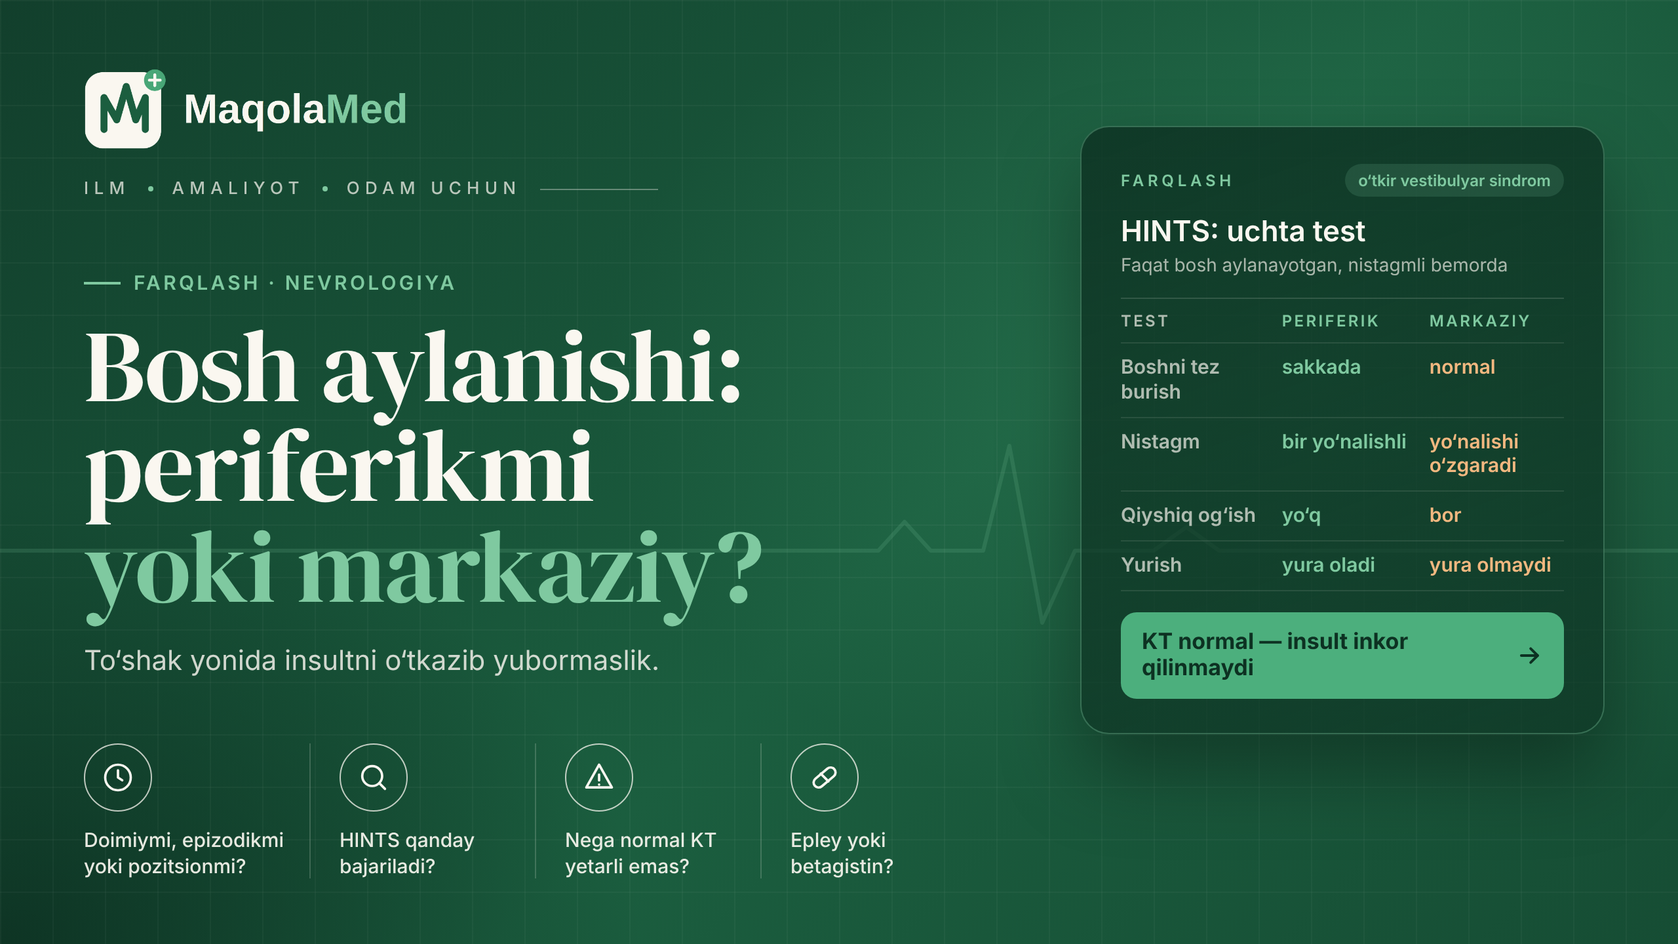
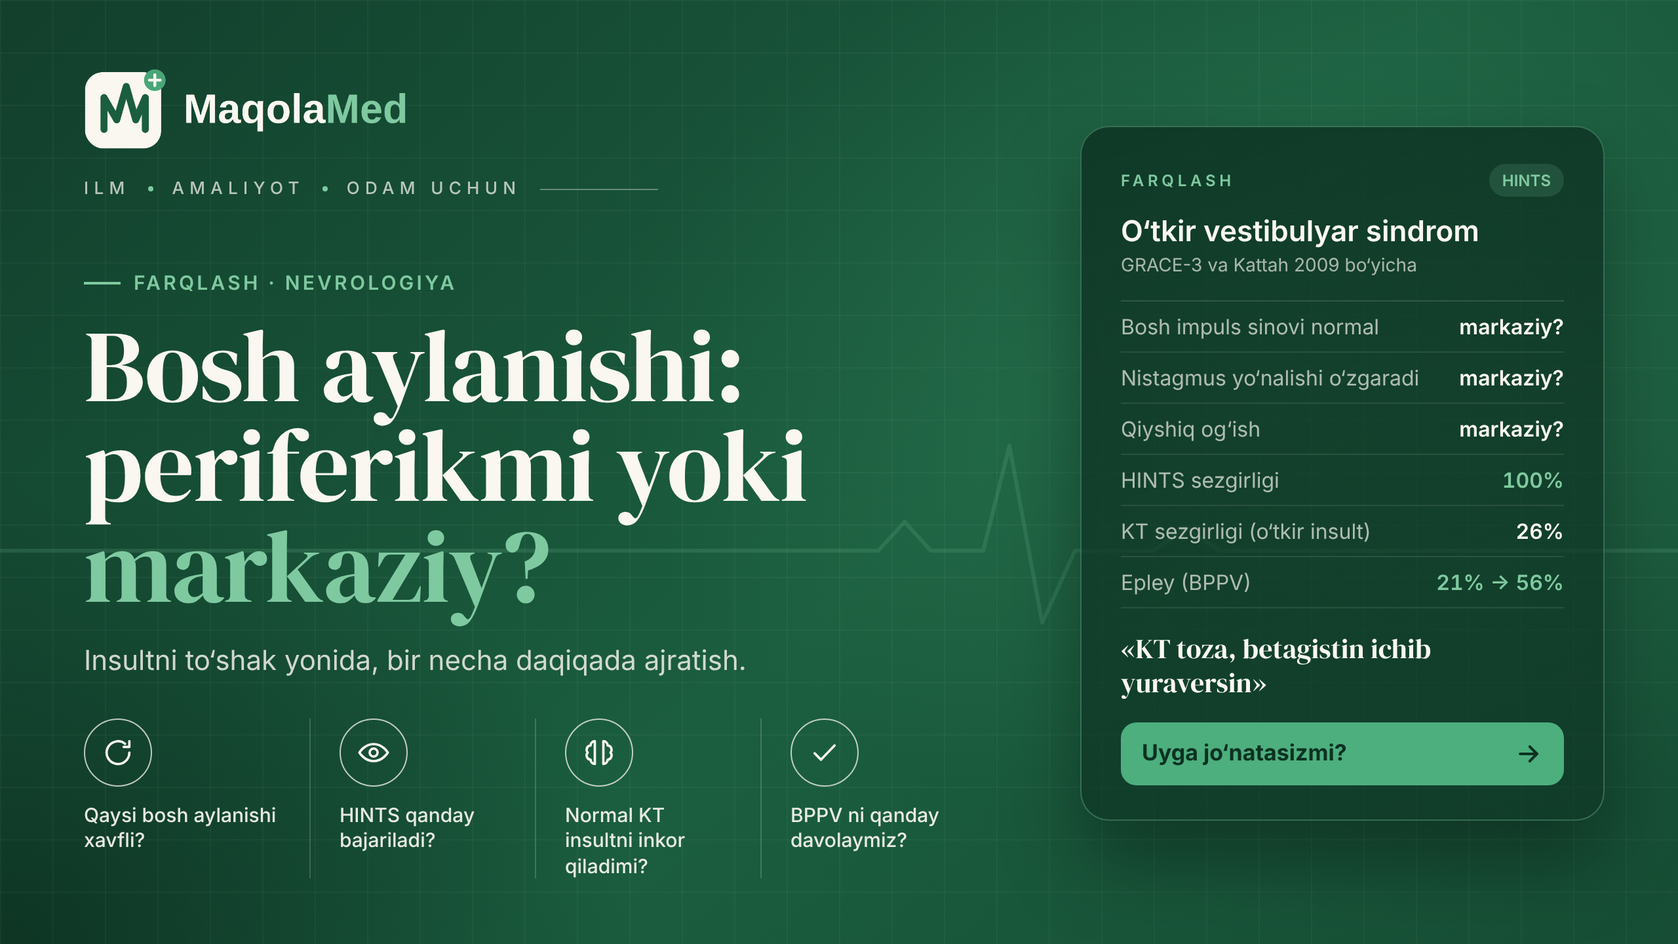
28-noyabr maqolasi qayta yozildi (v2, humanizer): bosh aylanishi — muqovalar, 2 rasm

diff --git a/_manba/2026-11-28/muqova-instagram-4x5.html b/_manba/2026-11-28/muqova-instagram-4x5.html
@@ -1,0 +1,84 @@
+<!doctype html>
+<html lang="uz">
+<head>
+<meta charset="utf-8"><base href="file:///home/claude/maqolamed-rasmlar/_shablon/">
+<style>
+@font-face{font-family:"DM Serif Display";src:url("fonts/dm-serif-display-latin-400-normal.woff2") format("woff2");}
+@font-face{font-family:"DM Serif Display";src:url("fonts/dm-serif-display-latin-ext-400-normal.woff2") format("woff2");unicode-range:U+0100-024F,U+1E00-1EFF;}
+:root{
+  --emerald:#1B5E3F; --deep:#0D3122; --cream:#FAF7F0; --mint:#7FC9A0; --green:#4CAF7D;
+}
+*{margin:0;padding:0;box-sizing:border-box}
+html,body{width:1280px;height:720px;overflow:hidden;background:var(--deep)}
+.cover{position:relative;width:1280px;height:720px;overflow:hidden;font-family:"Inter",sans-serif;color:var(--cream);
+  background:
+    radial-gradient(900px 600px at 78% 40%, rgba(76,175,125,.22), transparent 60%),
+    radial-gradient(700px 500px at 0% 100%, rgba(13,49,34,.9), transparent 70%),
+    linear-gradient(135deg,#123F2C 0%, #1B5E3F 55%, #164D34 100%);}
+.grid{position:absolute;inset:0;background-image:
+    linear-gradient(rgba(250,247,240,.035) 1px,transparent 1px),
+    linear-gradient(90deg,rgba(250,247,240,.035) 1px,transparent 1px);
+  background-size:40px 40px;}
+.ekg{position:absolute;left:0;top:300px;width:1280px;height:200px;opacity:.16}
+.left{position:absolute;left:64px;top:52px;width:690px}
+.brand{display:flex;align-items:center;gap:28px}
+.brand img{height:62px;display:block}
+.tag{display:flex;align-items:center;gap:14px;font-size:13px;letter-spacing:.32em;color:rgba(250,247,240,.72);font-weight:500}
+.tag i{width:4px;height:4px;border-radius:50%;background:var(--mint);display:inline-block}
+.tag .line{width:90px;height:1px;background:rgba(250,247,240,.35)}
+.kicker{margin-top:54px;display:inline-flex;align-items:center;gap:10px;font-size:15px;font-weight:600;letter-spacing:.14em;text-transform:uppercase;color:var(--mint)}
+.kicker span{display:inline-block;width:28px;height:2px;background:var(--mint)}
+h1{margin-top:16px;font-family:"DM Serif Display",serif;font-weight:400;font-size:78px;line-height:.98;letter-spacing:-.01em;color:var(--cream)}
+h1 em{font-style:normal;color:var(--mint)}
+.sub{margin-top:22px;font-size:21px;color:rgba(250,247,240,.82);font-weight:400}
+.points{position:absolute;left:64px;bottom:50px;display:flex;gap:0}
+.pt{width:172px;padding-right:18px;display:flex;flex-direction:column;align-items:flex-start;gap:12px}
+.pt + .pt{padding-left:22px;border-left:1px solid rgba(250,247,240,.18)}
+.ic{width:52px;height:52px;border-radius:50%;border:1.6px solid rgba(250,247,240,.75);display:grid;place-items:center}
+.ic svg{width:26px;height:26px;stroke:var(--cream);fill:none;stroke-width:1.7;stroke-linecap:round;stroke-linejoin:round}
+.pt p{font-size:15px;line-height:1.3;color:rgba(250,247,240,.92);font-weight:500}
+.card{position:absolute;right:56px;top:96px;width:400px;border-radius:22px;padding:28px 30px 26px;
+  background:linear-gradient(160deg,rgba(13,49,34,.82),rgba(13,49,34,.62));
+  border:1px solid rgba(127,201,160,.35);box-shadow:0 30px 60px rgba(0,0,0,.35)}
+.card .ch{display:flex;justify-content:space-between;align-items:center}
+.card .lbl{font-size:12px;letter-spacing:.24em;font-weight:600;color:var(--mint)}
+.card .pill{font-size:12px;font-weight:600;padding:5px 10px;border-radius:999px;background:rgba(127,201,160,.16);color:var(--mint)}
+.card h3{margin-top:14px;font-size:22px;font-weight:600}
+.card h3 small{display:block;margin-top:4px;font-size:14px;font-weight:400;color:rgba(250,247,240,.65)}
+.rows{margin-top:18px;border-top:1px solid rgba(250,247,240,.14)}
+.row{display:flex;justify-content:space-between;padding:9px 0;border-bottom:1px solid rgba(250,247,240,.10);font-size:16px}
+.row span:first-child{color:rgba(250,247,240,.68)}
+.row span:last-child{font-weight:600;font-variant-numeric:tabular-nums}
+.row .ok{color:var(--mint)}
+.quote{margin-top:18px;font-family:"DM Serif Display",serif;font-size:21px;line-height:1.25;color:var(--cream)}
+.ask{margin-top:16px;display:flex;align-items:center;justify-content:space-between;padding:13px 16px;border-radius:12px;background:var(--green);color:#0D3122;font-weight:700;font-size:17px}
+.ask svg{width:22px;height:22px;stroke:#0D3122;fill:none;stroke-width:2.2;stroke-linecap:round;stroke-linejoin:round}
+
+html,body{width:1080px;height:1350px}
+.cover{width:1080px;height:1350px}
+.ekg{top:525px;width:1080px}
+.left{left:72px;top:64px;width:940px}
+.brand img{height:72px}
+h1{font-size:96px;margin-top:18px}
+.kicker{margin-top:56px;font-size:17px}
+.sub{font-size:24px}
+.card{left:72px;right:72px;top:auto;bottom:250px;width:auto;padding:30px 34px}
+.rows{display:grid;grid-template-columns:1fr 1fr;column-gap:40px}
+.quote{font-size:24px}
+.points{left:72px;right:72px;bottom:60px}
+.pt{width:auto;flex:1}
+.pt p{font-size:17px}
+
+</style>
+</head>
+<body><div class="cover"><div class="grid"></div>
+<svg class="ekg" viewBox="0 0 1280 200" preserveAspectRatio="none"><polyline fill="none" stroke="#7FC9A0" stroke-width="3" stroke-linejoin="round" stroke-linecap="round" points="0,120 640,120 670,120 690,98 710,120 750,120 770,40 795,175 820,120 880,120 905,102 930,120 1280,120"/></svg>
+<div class="left"><div class="brand"><img src="logo_dark_bg.png" alt="MaqolaMed"></div>
+<div class="tag" style="margin-top:22px"><span>ILM</span><i></i><span>AMALIYOT</span><i></i><span>ODAM UCHUN</span><span class="line"></span></div>
+<div class="kicker"><span></span>Farqlash · Nevrologiya</div>
+<h1>Bosh aylanishi:<br>periferikmi yoki<br><em>markaziy?</em></h1>
+<div class="sub">Insultni to‘shak yonida, bir necha daqiqada ajratish.</div></div>
+<div class="points"><div class="pt"><div class="ic"><svg viewBox="0 0 24 24"><path d="M20 12a8 8 0 1 1-3-6.2"/><path d="M20 4v4h-4"/></svg></div><p>Qaysi bosh aylanishi xavfli?</p></div><div class="pt"><div class="ic"><svg viewBox="0 0 24 24"><path d="M2 12s3.5-6 10-6 10 6 10 6-3.5 6-10 6S2 12 2 12z"/><circle cx="12" cy="12" r="2.8"/></svg></div><p>HINTS qanday bajariladi?</p></div><div class="pt"><div class="ic"><svg viewBox="0 0 24 24"><path d="M9 4a3 3 0 0 0-3 3 3 3 0 0 0-2 5 3 3 0 0 0 2 5 3 3 0 0 0 3 3h0V4z"/><path d="M15 4a3 3 0 0 1 3 3 3 3 0 0 1 2 5 3 3 0 0 1-2 5 3 3 0 0 1-3 3V4z"/></svg></div><p>Normal KT insultni inkor qiladimi?</p></div><div class="pt"><div class="ic"><svg viewBox="0 0 24 24"><path d="M5 12.5l4.5 4.5L19 7"/></svg></div><p>BPPV ni qanday davolaymiz?</p></div></div>
+<div class="card"><div class="ch"><span class="lbl">FARQLASH</span><span class="pill">HINTS</span></div>
+<h3>O‘tkir vestibulyar sindrom<small>GRACE-3 va Kattah 2009 bo‘yicha</small></h3><div class="rows"><div class="row"><span>Bosh impuls sinovi normal</span><span class="">markaziy?</span></div><div class="row"><span>Nistagmus yo‘nalishi o‘zgaradi</span><span class="">markaziy?</span></div><div class="row"><span>Qiyshiq og‘ish</span><span class="">markaziy?</span></div><div class="row"><span>HINTS sezgirligi</span><span class="ok">100%</span></div><div class="row"><span>KT sezgirligi (o‘tkir insult)</span><span class="">26%</span></div><div class="row"><span>Epley (BPPV)</span><span class="ok">21% → 56%</span></div></div><div class="quote">«KT toza, betagistin ichib yuraversin»</div><div class="ask">Uyga jo‘natasizmi?<svg viewBox="0 0 24 24"><path d="M5 12h14"/><path d="M13 6l6 6-6 6"/></svg></div></div>
+</div></body></html>

diff --git a/_manba/2026-11-28/muqova-16x9.html b/_manba/2026-11-28/muqova-16x9.html
@@ -1,0 +1,69 @@
+<!doctype html>
+<html lang="uz">
+<head>
+<meta charset="utf-8"><base href="file:///home/claude/maqolamed-rasmlar/_shablon/">
+<style>
+@font-face{font-family:"DM Serif Display";src:url("fonts/dm-serif-display-latin-400-normal.woff2") format("woff2");}
+@font-face{font-family:"DM Serif Display";src:url("fonts/dm-serif-display-latin-ext-400-normal.woff2") format("woff2");unicode-range:U+0100-024F,U+1E00-1EFF;}
+:root{
+  --emerald:#1B5E3F; --deep:#0D3122; --cream:#FAF7F0; --mint:#7FC9A0; --green:#4CAF7D;
+}
+*{margin:0;padding:0;box-sizing:border-box}
+html,body{width:1280px;height:720px;overflow:hidden;background:var(--deep)}
+.cover{position:relative;width:1280px;height:720px;overflow:hidden;font-family:"Inter",sans-serif;color:var(--cream);
+  background:
+    radial-gradient(900px 600px at 78% 40%, rgba(76,175,125,.22), transparent 60%),
+    radial-gradient(700px 500px at 0% 100%, rgba(13,49,34,.9), transparent 70%),
+    linear-gradient(135deg,#123F2C 0%, #1B5E3F 55%, #164D34 100%);}
+.grid{position:absolute;inset:0;background-image:
+    linear-gradient(rgba(250,247,240,.035) 1px,transparent 1px),
+    linear-gradient(90deg,rgba(250,247,240,.035) 1px,transparent 1px);
+  background-size:40px 40px;}
+.ekg{position:absolute;left:0;top:300px;width:1280px;height:200px;opacity:.16}
+.left{position:absolute;left:64px;top:52px;width:690px}
+.brand{display:flex;align-items:center;gap:28px}
+.brand img{height:62px;display:block}
+.tag{display:flex;align-items:center;gap:14px;font-size:13px;letter-spacing:.32em;color:rgba(250,247,240,.72);font-weight:500}
+.tag i{width:4px;height:4px;border-radius:50%;background:var(--mint);display:inline-block}
+.tag .line{width:90px;height:1px;background:rgba(250,247,240,.35)}
+.kicker{margin-top:54px;display:inline-flex;align-items:center;gap:10px;font-size:15px;font-weight:600;letter-spacing:.14em;text-transform:uppercase;color:var(--mint)}
+.kicker span{display:inline-block;width:28px;height:2px;background:var(--mint)}
+h1{margin-top:16px;font-family:"DM Serif Display",serif;font-weight:400;font-size:78px;line-height:.98;letter-spacing:-.01em;color:var(--cream)}
+h1 em{font-style:normal;color:var(--mint)}
+.sub{margin-top:22px;font-size:21px;color:rgba(250,247,240,.82);font-weight:400}
+.points{position:absolute;left:64px;bottom:50px;display:flex;gap:0}
+.pt{width:172px;padding-right:18px;display:flex;flex-direction:column;align-items:flex-start;gap:12px}
+.pt + .pt{padding-left:22px;border-left:1px solid rgba(250,247,240,.18)}
+.ic{width:52px;height:52px;border-radius:50%;border:1.6px solid rgba(250,247,240,.75);display:grid;place-items:center}
+.ic svg{width:26px;height:26px;stroke:var(--cream);fill:none;stroke-width:1.7;stroke-linecap:round;stroke-linejoin:round}
+.pt p{font-size:15px;line-height:1.3;color:rgba(250,247,240,.92);font-weight:500}
+.card{position:absolute;right:56px;top:96px;width:400px;border-radius:22px;padding:28px 30px 26px;
+  background:linear-gradient(160deg,rgba(13,49,34,.82),rgba(13,49,34,.62));
+  border:1px solid rgba(127,201,160,.35);box-shadow:0 30px 60px rgba(0,0,0,.35)}
+.card .ch{display:flex;justify-content:space-between;align-items:center}
+.card .lbl{font-size:12px;letter-spacing:.24em;font-weight:600;color:var(--mint)}
+.card .pill{font-size:12px;font-weight:600;padding:5px 10px;border-radius:999px;background:rgba(127,201,160,.16);color:var(--mint)}
+.card h3{margin-top:14px;font-size:22px;font-weight:600}
+.card h3 small{display:block;margin-top:4px;font-size:14px;font-weight:400;color:rgba(250,247,240,.65)}
+.rows{margin-top:18px;border-top:1px solid rgba(250,247,240,.14)}
+.row{display:flex;justify-content:space-between;padding:9px 0;border-bottom:1px solid rgba(250,247,240,.10);font-size:16px}
+.row span:first-child{color:rgba(250,247,240,.68)}
+.row span:last-child{font-weight:600;font-variant-numeric:tabular-nums}
+.row .ok{color:var(--mint)}
+.quote{margin-top:18px;font-family:"DM Serif Display",serif;font-size:21px;line-height:1.25;color:var(--cream)}
+.ask{margin-top:16px;display:flex;align-items:center;justify-content:space-between;padding:13px 16px;border-radius:12px;background:var(--green);color:#0D3122;font-weight:700;font-size:17px}
+.ask svg{width:22px;height:22px;stroke:#0D3122;fill:none;stroke-width:2.2;stroke-linecap:round;stroke-linejoin:round}
+
+</style>
+</head>
+<body><div class="cover"><div class="grid"></div>
+<svg class="ekg" viewBox="0 0 1280 200" preserveAspectRatio="none"><polyline fill="none" stroke="#7FC9A0" stroke-width="3" stroke-linejoin="round" stroke-linecap="round" points="0,120 640,120 670,120 690,98 710,120 750,120 770,40 795,175 820,120 880,120 905,102 930,120 1280,120"/></svg>
+<div class="left"><div class="brand"><img src="logo_dark_bg.png" alt="MaqolaMed"></div>
+<div class="tag" style="margin-top:22px"><span>ILM</span><i></i><span>AMALIYOT</span><i></i><span>ODAM UCHUN</span><span class="line"></span></div>
+<div class="kicker"><span></span>Farqlash · Nevrologiya</div>
+<h1>Bosh aylanishi:<br>periferikmi yoki<br><em>markaziy?</em></h1>
+<div class="sub">Insultni to‘shak yonida, bir necha daqiqada ajratish.</div></div>
+<div class="points"><div class="pt"><div class="ic"><svg viewBox="0 0 24 24"><path d="M20 12a8 8 0 1 1-3-6.2"/><path d="M20 4v4h-4"/></svg></div><p>Qaysi bosh aylanishi xavfli?</p></div><div class="pt"><div class="ic"><svg viewBox="0 0 24 24"><path d="M2 12s3.5-6 10-6 10 6 10 6-3.5 6-10 6S2 12 2 12z"/><circle cx="12" cy="12" r="2.8"/></svg></div><p>HINTS qanday bajariladi?</p></div><div class="pt"><div class="ic"><svg viewBox="0 0 24 24"><path d="M9 4a3 3 0 0 0-3 3 3 3 0 0 0-2 5 3 3 0 0 0 2 5 3 3 0 0 0 3 3h0V4z"/><path d="M15 4a3 3 0 0 1 3 3 3 3 0 0 1 2 5 3 3 0 0 1-2 5 3 3 0 0 1-3 3V4z"/></svg></div><p>Normal KT insultni inkor qiladimi?</p></div><div class="pt"><div class="ic"><svg viewBox="0 0 24 24"><path d="M5 12.5l4.5 4.5L19 7"/></svg></div><p>BPPV ni qanday davolaymiz?</p></div></div>
+<div class="card"><div class="ch"><span class="lbl">FARQLASH</span><span class="pill">HINTS</span></div>
+<h3>O‘tkir vestibulyar sindrom<small>GRACE-3 va Kattah 2009 bo‘yicha</small></h3><div class="rows"><div class="row"><span>Bosh impuls sinovi normal</span><span class="">markaziy?</span></div><div class="row"><span>Nistagmus yo‘nalishi o‘zgaradi</span><span class="">markaziy?</span></div><div class="row"><span>Qiyshiq og‘ish</span><span class="">markaziy?</span></div><div class="row"><span>HINTS sezgirligi</span><span class="ok">100%</span></div><div class="row"><span>KT sezgirligi (o‘tkir insult)</span><span class="">26%</span></div><div class="row"><span>Epley (BPPV)</span><span class="ok">21% → 56%</span></div></div><div class="quote">«KT toza, betagistin ichib yuraversin»</div><div class="ask">Uyga jo‘natasizmi?<svg viewBox="0 0 24 24"><path d="M5 12h14"/><path d="M13 6l6 6-6 6"/></svg></div></div>
+</div></body></html>

diff --git a/_manba/2026-11-28/2-rasm.html b/_manba/2026-11-28/2-rasm.html
@@ -1,0 +1,50 @@
+<!doctype html><html lang="uz"><head><meta charset="utf-8"><base href="file:///home/claude/maqolamed-rasmlar/_shablon/"><style>
+@font-face{font-family:"DM Serif Display";src:url("fonts/dm-serif-display-latin-400-normal.woff2") format("woff2");}
+@font-face{font-family:"DM Serif Display";src:url("fonts/dm-serif-display-latin-ext-400-normal.woff2") format("woff2");unicode-range:U+0100-024F,U+1E00-1EFF;}
+:root{--emerald:#1B5E3F;--deep:#0D3122;--cream:#FAF7F0;--mint:#7FC9A0;--green:#4CAF7D;--ink:#17322A;--muted:#5C6F66;--amber:#C98A2E;--amberbg:#FBF1E1;--red:#B5513F;--redbg:#F8E7E2}
+*{margin:0;padding:0;box-sizing:border-box}
+html,body{width:1280px;height:760px;background:var(--cream);overflow:hidden}
+.fig{position:relative;width:1280px;height:760px;padding:44px 56px;font-family:"Inter",sans-serif;color:var(--ink)}
+.top{display:flex;justify-content:space-between;align-items:flex-start;margin-bottom:26px}
+h1{font-family:"DM Serif Display",serif;font-weight:400;font-size:40px;line-height:1.08;color:var(--deep)}
+h1 em{font-style:normal;color:var(--green)}
+.brand{display:flex;align-items:center;gap:10px;font-weight:700;font-size:20px;color:var(--emerald);white-space:nowrap}
+.brand img{height:34px}.brand b{color:var(--green);font-weight:700}
+table{width:100%;border-collapse:separate;border-spacing:0;font-size:17px;line-height:1.35;background:#fff;border-radius:14px;overflow:hidden;border:1.5px solid #BFDCCB}
+th{background:var(--emerald);color:var(--cream);text-align:left;padding:13px 16px;font-size:16px;font-weight:600}
+td{padding:12px 16px;border-top:1px solid #E3EDE7;vertical-align:top}
+td:first-child{font-weight:600;color:var(--deep);width:24%}
+tr:nth-child(even) td{background:#F6FAF7}
+.good{color:var(--emerald);font-weight:600}.bad{color:var(--red);font-weight:600}.mid{color:#8A5A14;font-weight:600}
+.row3{display:flex;gap:20px}
+.box{flex:1;border-radius:14px;padding:16px 18px;font-size:16px;line-height:1.42;background:#fff;border:1.5px solid #BFDCCB}
+.box b.t{display:block;font-size:18px;margin-bottom:6px;color:var(--deep)}
+.box.g{border-color:#BFDCCB}.box.a{border-color:#EBD3A9;background:#FFFDF8}.box.r{border-color:#E8C3BA;background:#FFFBFA}
+.box.dark{background:var(--emerald);color:var(--cream);border:none}.box.dark b.t{color:var(--cream)}
+.step{display:flex;gap:16px;align-items:flex-start;background:#fff;border:1.5px solid #BFDCCB;border-radius:14px;padding:14px 18px;margin-bottom:12px;font-size:16.5px;line-height:1.42}
+.num{flex:none;width:40px;height:40px;border-radius:50%;background:var(--emerald);color:var(--cream);display:grid;place-items:center;font-weight:700;font-size:19px}
+.step b.t{display:block;font-size:18px;color:var(--deep);margin-bottom:3px}
+.tag{display:inline-block;font-size:12.5px;font-weight:700;letter-spacing:.1em;text-transform:uppercase;padding:5px 11px;border-radius:999px;margin-bottom:10px}
+.tg{background:#DDEFE5;color:var(--emerald)}.ta{background:var(--amberbg);color:#8A5A14}.tr{background:var(--redbg);color:var(--red)}
+.note{margin-top:18px;padding:14px 18px;border-radius:12px;background:#EEF2EE;font-size:15.5px;line-height:1.42}
+.note b{color:var(--deep)}
+.src{position:absolute;right:56px;bottom:14px;font-size:12.5px;color:var(--muted)}
+ul.l{margin:6px 0 0 18px}ul.l li{margin:3px 0}
+</style></head><body><div class="fig">
+<div class="top"><h1>Bosh aylanishi:<br><em>«qizil bayroqlar» va qaror</em></h1><div class="brand"><img src="icon.png" alt=""><span>Maqola<b>Med</b></span></div></div>
+
+<div class="row3">
+<div class="box r"><span class="tag tr">Qizil bayroqlar</span><ul class="l">
+<li>HINTS da markaziy belgi [3]</li><li>Diplopiya, dizartriya, disfagiya</li><li>Uvishish yoki kuchsizlik</li><li>Yordamsiz turolmaslik</li><li>Yangi bosh yoki bo‘yin og‘rig‘i</li><li>To‘satdan eshitish pasayishi</li></ul></div>
+<div class="box a"><span class="tag ta">Tasvirlash</span><ul class="l">
+<li>Normal KT insultni inkor qilmaydi: o‘tkir insultda KT 26%, MRT 83% [5]</li><li>AVS da muntazam KT/KT-A emas (kuchli tavsiya) [2]</li><li>Erta MRT ham 12% soxta manfiy [3]</li></ul></div>
+<div class="box g"><span class="tag tg">BPPV</span><ul class="l">
+<li>Dix-Hallpike: tashxis [6]</li><li>Epley: to‘liq yo‘qolish 21% → 56% [7]</li><li>Supressant va tasvirlash muntazam kerak emas [6]</li><li>Qaytalanish 36% [7]</li></ul></div>
+</div>
+<div style="margin-top:22px">
+<div class="step"><div class="num">1</div><div><b class="t">Vaqt va qo‘zg‘atuvchi [2]</b>Doimiy (AVS) · pozitsion, &lt; 1 daqiqa (BPPV) · spontan epizodik</div></div>
+<div class="step"><div class="num">2</div><div><b class="t">AVS → HINTS + nevrologik ko‘rik + yurish</b>Markaziy belgi yoki qizil bayroq → nevrolog, MRT</div></div>
+<div class="step"><div class="num">3</div><div><b class="t">Pozitsion → Dix-Hallpike → Epley</b>Manyovr dori kursining o‘rnini bosadi</div></div>
+</div>
+
+<div class="src">Raqamlar maqoladagi manbalar ro‘yxatiga ishora qiladi.</div></div></body></html>

diff --git a/_manba/2026-11-28/1-rasm.html b/_manba/2026-11-28/1-rasm.html
@@ -1,0 +1,48 @@
+<!doctype html><html lang="uz"><head><meta charset="utf-8"><base href="file:///home/claude/maqolamed-rasmlar/_shablon/"><style>
+@font-face{font-family:"DM Serif Display";src:url("fonts/dm-serif-display-latin-400-normal.woff2") format("woff2");}
+@font-face{font-family:"DM Serif Display";src:url("fonts/dm-serif-display-latin-ext-400-normal.woff2") format("woff2");unicode-range:U+0100-024F,U+1E00-1EFF;}
+:root{--emerald:#1B5E3F;--deep:#0D3122;--cream:#FAF7F0;--mint:#7FC9A0;--green:#4CAF7D;--ink:#17322A;--muted:#5C6F66;--amber:#C98A2E;--amberbg:#FBF1E1;--red:#B5513F;--redbg:#F8E7E2}
+*{margin:0;padding:0;box-sizing:border-box}
+html,body{width:1280px;height:700px;background:var(--cream);overflow:hidden}
+.fig{position:relative;width:1280px;height:700px;padding:44px 56px;font-family:"Inter",sans-serif;color:var(--ink)}
+.top{display:flex;justify-content:space-between;align-items:flex-start;margin-bottom:26px}
+h1{font-family:"DM Serif Display",serif;font-weight:400;font-size:40px;line-height:1.08;color:var(--deep)}
+h1 em{font-style:normal;color:var(--green)}
+.brand{display:flex;align-items:center;gap:10px;font-weight:700;font-size:20px;color:var(--emerald);white-space:nowrap}
+.brand img{height:34px}.brand b{color:var(--green);font-weight:700}
+table{width:100%;border-collapse:separate;border-spacing:0;font-size:17px;line-height:1.35;background:#fff;border-radius:14px;overflow:hidden;border:1.5px solid #BFDCCB}
+th{background:var(--emerald);color:var(--cream);text-align:left;padding:13px 16px;font-size:16px;font-weight:600}
+td{padding:12px 16px;border-top:1px solid #E3EDE7;vertical-align:top}
+td:first-child{font-weight:600;color:var(--deep);width:24%}
+tr:nth-child(even) td{background:#F6FAF7}
+.good{color:var(--emerald);font-weight:600}.bad{color:var(--red);font-weight:600}.mid{color:#8A5A14;font-weight:600}
+.row3{display:flex;gap:20px}
+.box{flex:1;border-radius:14px;padding:16px 18px;font-size:16px;line-height:1.42;background:#fff;border:1.5px solid #BFDCCB}
+.box b.t{display:block;font-size:18px;margin-bottom:6px;color:var(--deep)}
+.box.g{border-color:#BFDCCB}.box.a{border-color:#EBD3A9;background:#FFFDF8}.box.r{border-color:#E8C3BA;background:#FFFBFA}
+.box.dark{background:var(--emerald);color:var(--cream);border:none}.box.dark b.t{color:var(--cream)}
+.step{display:flex;gap:16px;align-items:flex-start;background:#fff;border:1.5px solid #BFDCCB;border-radius:14px;padding:14px 18px;margin-bottom:12px;font-size:16.5px;line-height:1.42}
+.num{flex:none;width:40px;height:40px;border-radius:50%;background:var(--emerald);color:var(--cream);display:grid;place-items:center;font-weight:700;font-size:19px}
+.step b.t{display:block;font-size:18px;color:var(--deep);margin-bottom:3px}
+.tag{display:inline-block;font-size:12.5px;font-weight:700;letter-spacing:.1em;text-transform:uppercase;padding:5px 11px;border-radius:999px;margin-bottom:10px}
+.tg{background:#DDEFE5;color:var(--emerald)}.ta{background:var(--amberbg);color:#8A5A14}.tr{background:var(--redbg);color:var(--red)}
+.note{margin-top:18px;padding:14px 18px;border-radius:12px;background:#EEF2EE;font-size:15.5px;line-height:1.42}
+.note b{color:var(--deep)}
+.src{position:absolute;right:56px;bottom:14px;font-size:12.5px;color:var(--muted)}
+ul.l{margin:6px 0 0 18px}ul.l li{margin:3px 0}
+</style></head><body><div class="fig">
+<div class="top"><h1>O‘tkir vestibulyar sindrom:<br><em>periferikmi yoki markaziy?</em></h1><div class="brand"><img src="icon.png" alt=""><span>Maqola<b>Med</b></span></div></div>
+
+<table>
+<tr><th>Belgi</th><th>Periferik (vestibulyar nevrit)</th><th>Markaziy (insult)</th></tr>
+<tr><td>Bosh impuls sinovi</td><td class="good">Patologik: tuzatuvchi sakkada</td><td class="bad">Normal (AVS bo‘la turib)</td></tr>
+<tr><td>Nistagmus</td><td class="good">Bir yo‘nalishli, gorizontal</td><td class="bad">Qarash tomoniga qarab yo‘nalishi o‘zgaradi</td></tr>
+<tr><td>Qiyshiq og‘ish (skew)</td><td class="good">Yo‘q</td><td class="bad">Vertikal siljish bor</td></tr>
+<tr><td>Yurish</td><td>Tomonga og‘adi, ammo yuradi</td><td class="bad">Ko‘pincha yordamsiz turolmaydi</td></tr>
+<tr><td>Boshqa nevrologik belgilar</td><td>Yo‘q</td><td class="bad">Diplopiya, dizartriya, disfagiya, uvishish, kuchsizlik</td></tr>
+<tr><td>Bosh yoki bo‘yin og‘rig‘i</td><td>Odatda yo‘q</td><td class="bad">Yangi og‘riq: disseksiyaga shubha</td></tr>
+<tr><td>Ko‘rik</td><td colspan="2">HINTS faqat AVS da, nistagmus bo‘lganda qo‘llanadi [2]. Bitta markaziy belgi insultga shubha uchun yetarli</td></tr>
+</table>
+<div class="note"><b>HINTS (Kattah 2009):</b> uchta markaziy belgidan istalgan biri insultni 100% sezgirlik va 96% o‘ziga xoslik bilan aniqlagan; erta MRT 12% holatda soxta manfiy [3]. Shoshilinch shifokorlar qo‘lida aniqlik past, shuning uchun o‘qitish shart [2].</div>
+
+<div class="src">Raqamlar maqoladagi manbalar ro‘yxatiga ishora qiladi.</div></div></body></html>
